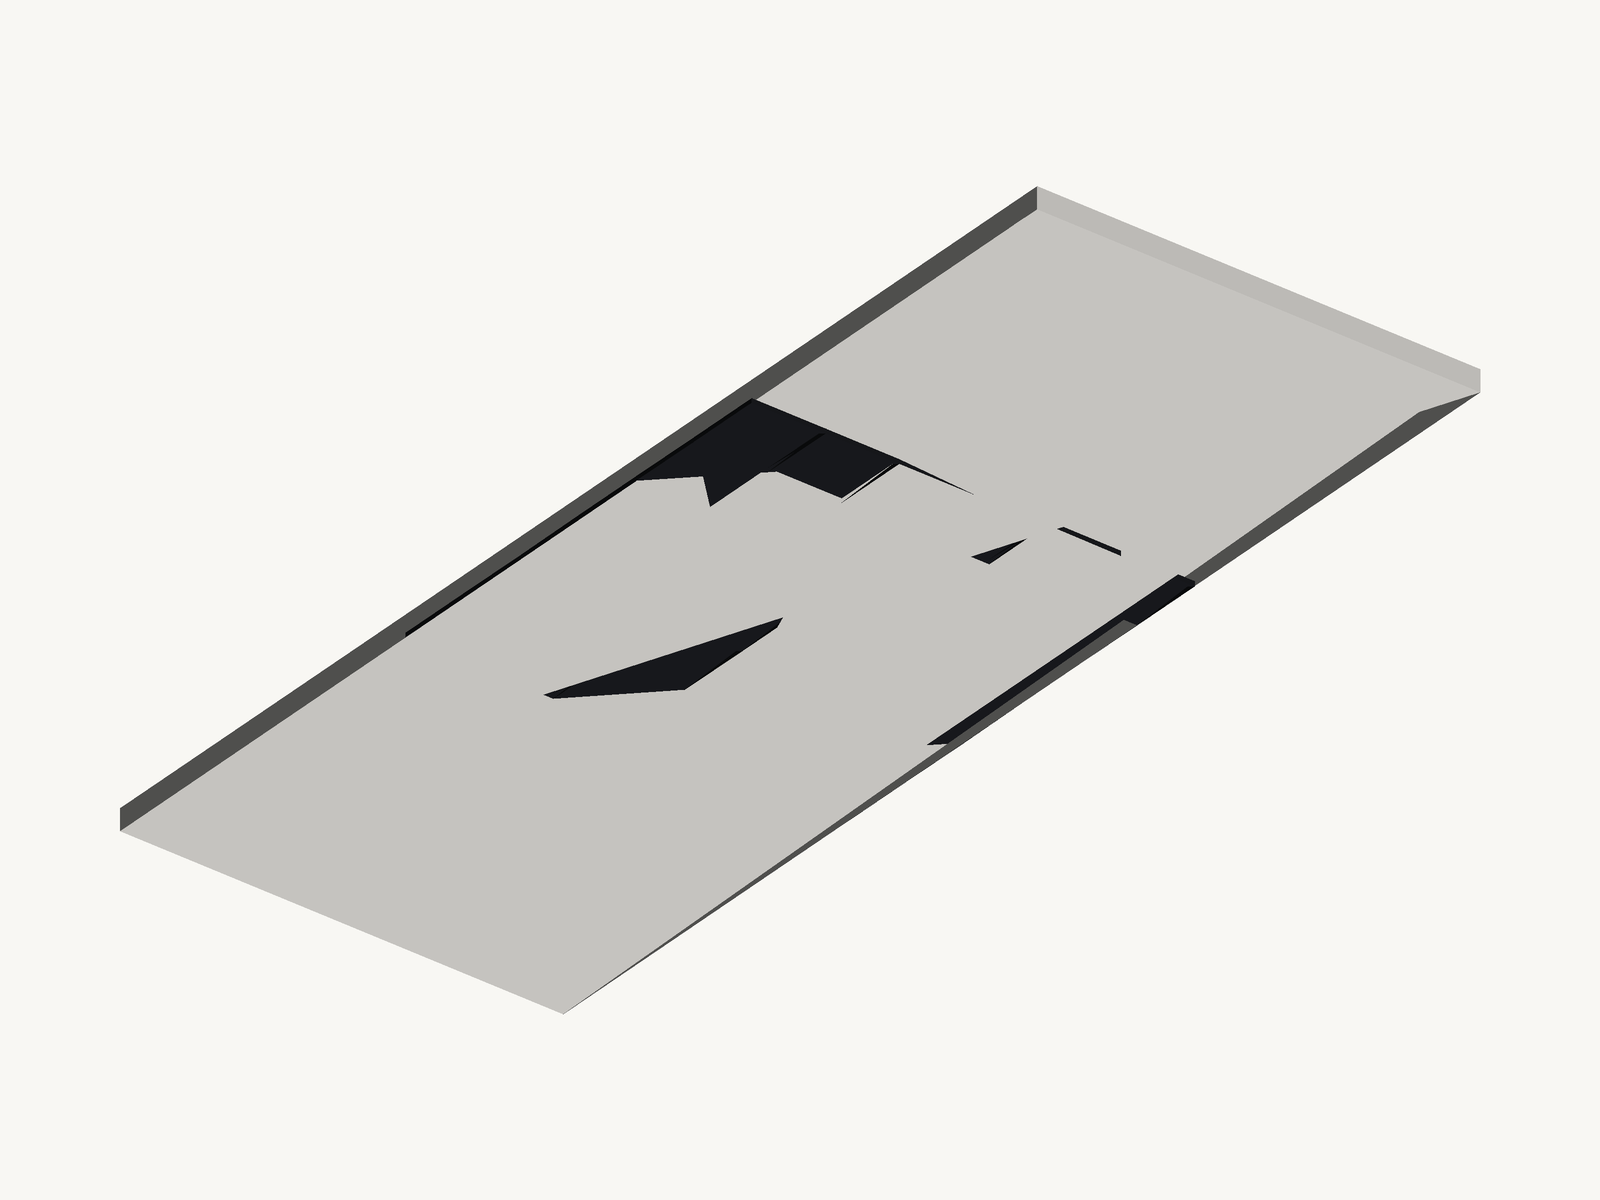
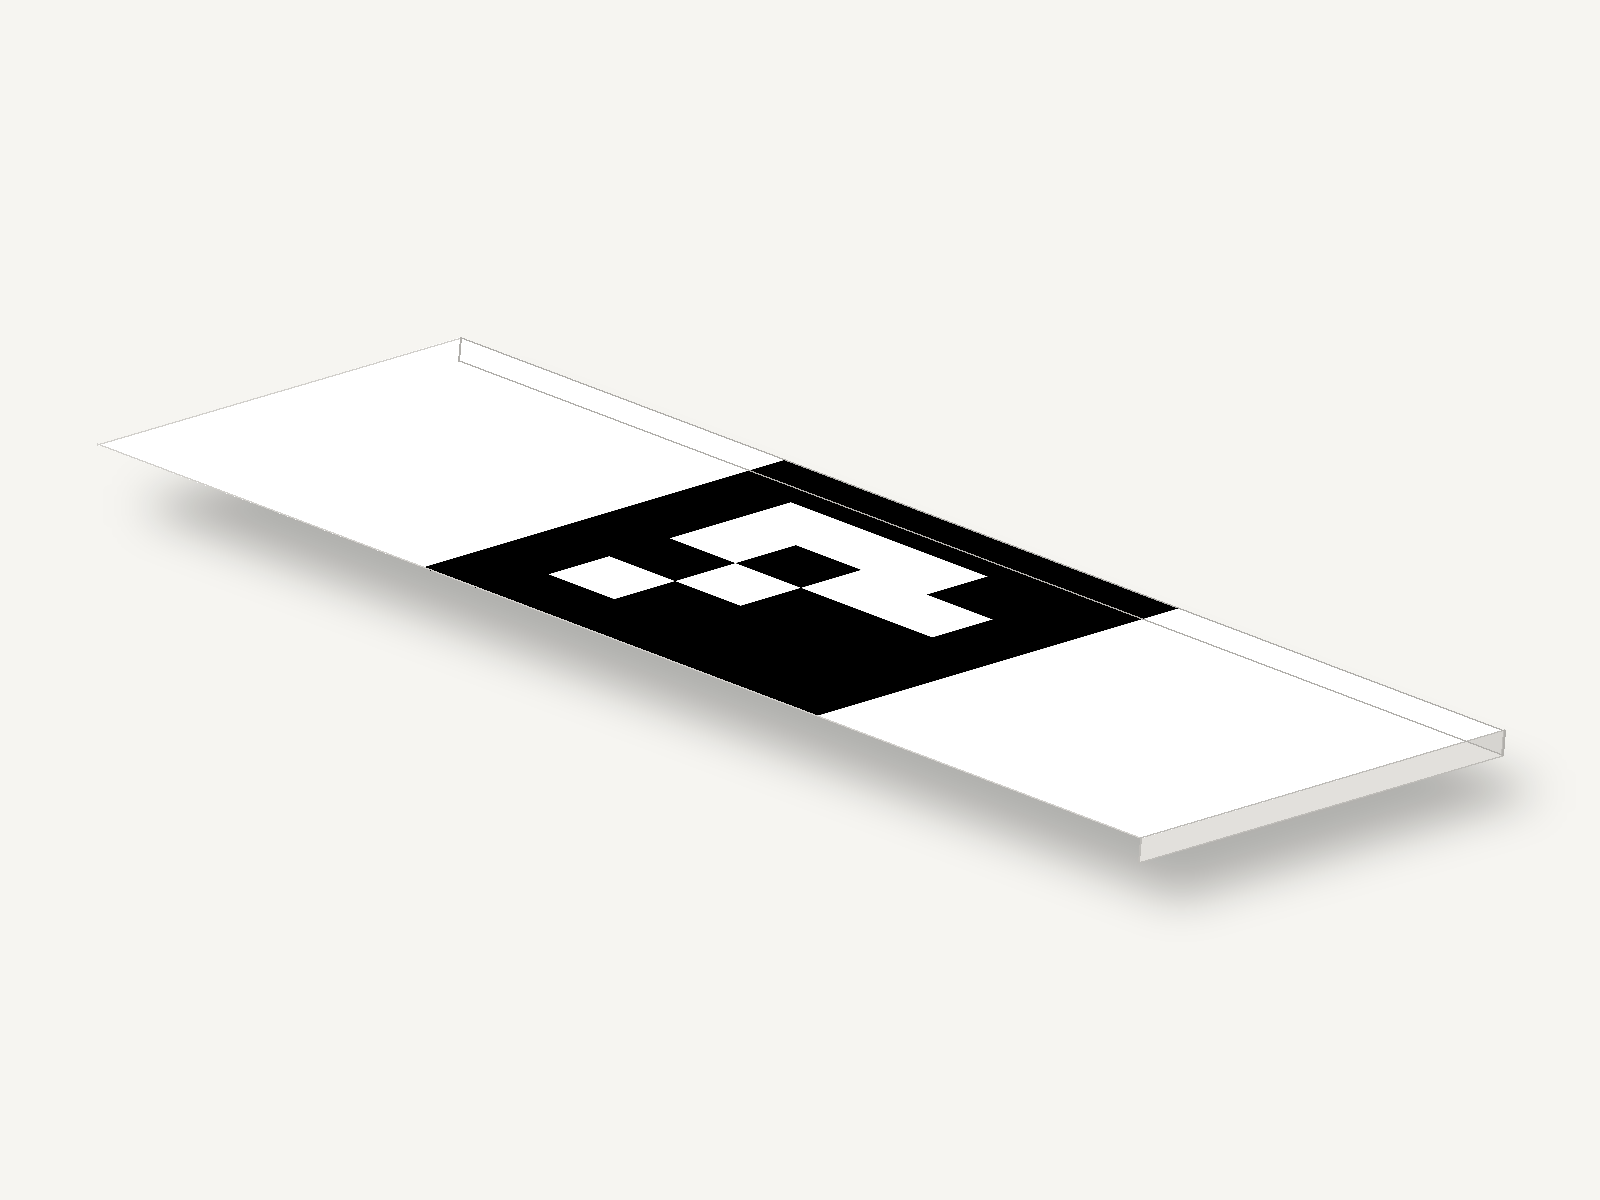
Improve plate render readability

Changed region(s): [[0.0625, 0.1542, 0.9688, 0.8633]]

diff --git a/src/calibration_target_gen/shared/render.py b/src/calibration_target_gen/shared/render.py
@@ -7,10 +7,11 @@ import math
 import numpy as np
 
 try:
-    from PIL import Image, ImageDraw
+    from PIL import Image, ImageDraw, ImageFilter
 except ModuleNotFoundError as exc:  # pragma: no cover - depends on local env
     Image = None
     ImageDraw = None
+    ImageFilter = None
     _PIL_IMPORT_ERROR = exc
 else:
     _PIL_IMPORT_ERROR = None
@@ -100,6 +101,64 @@ def save_render_preview(
     return output_path
 
 
+def save_plate_render_preview(
+    preview_image: np.ndarray,
+    plate_width_mm: float,
+    plate_height_mm: float,
+    plate_thickness_mm: float,
+    path: str | Path,
+    image_size_px: tuple[int, int] = DEFAULT_IMAGE_SIZE_PX,
+) -> Path:
+    _require_pil()
+
+    width_px, height_px = image_size_px
+    if width_px <= 0 or height_px <= 0:
+        raise ValueError("image_size_px values must be positive.")
+
+    preview_rgba = Image.fromarray(preview_image).convert("RGBA")
+    canvas = Image.new("RGBA", (width_px, height_px), color=(246, 245, 241, 255))
+    top_quad, bottom_quad = _project_plate_quads(
+        plate_width_mm=plate_width_mm,
+        plate_height_mm=plate_height_mm,
+        plate_thickness_mm=plate_thickness_mm,
+        image_size_px=image_size_px,
+    )
+
+    shadow = Image.new("RGBA", (width_px, height_px), color=(0, 0, 0, 0))
+    shadow_draw = ImageDraw.Draw(shadow)
+    shadow_poly = [(x + width_px * 0.025, y + height_px * 0.03) for x, y in bottom_quad]
+    shadow_draw.polygon(shadow_poly, fill=(0, 0, 0, 72))
+    shadow = shadow.filter(ImageFilter.GaussianBlur(radius=max(8, int(min(width_px, height_px) * 0.018))))
+    canvas.alpha_composite(shadow)
+
+    front_edge_index = _select_edge(top_quad, mode="front")
+    right_edge_index = _select_edge(top_quad, mode="right", exclude=front_edge_index)
+    side_front = _side_quad(top_quad, bottom_quad, front_edge_index)
+    side_right = _side_quad(top_quad, bottom_quad, right_edge_index)
+
+    draw = ImageDraw.Draw(canvas)
+    draw.polygon(side_front, fill=(226, 224, 220, 255))
+    draw.polygon(side_right, fill=(214, 212, 208, 255))
+
+    transform = preview_rgba.transform(
+        (width_px, height_px),
+        Image.Transform.AFFINE,
+        _affine_coefficients(preview_rgba.size, top_quad),
+        resample=Image.Resampling.BICUBIC,
+        fillcolor=(0, 0, 0, 0),
+    )
+    canvas.alpha_composite(transform)
+
+    draw = ImageDraw.Draw(canvas)
+    draw.line([*top_quad, top_quad[0]], fill=(210, 208, 204, 255), width=max(1, width_px // 600))
+    draw.line([*side_front, side_front[0]], fill=(190, 188, 184, 255), width=max(1, width_px // 800))
+    draw.line([*side_right, side_right[0]], fill=(176, 174, 170, 255), width=max(1, width_px // 800))
+
+    output_path = Path(path)
+    canvas.convert("RGB").save(output_path)
+    return output_path
+
+
 def _prepare_scene(
     meshes: tuple[PreviewMesh, ...],
 ) -> dict[str, object]:
@@ -168,6 +227,161 @@ def _camera_rotation_matrix() -> np.ndarray:
     return pitch_matrix @ yaw_matrix
 
 
+def _project_plate_quads(
+    plate_width_mm: float,
+    plate_height_mm: float,
+    plate_thickness_mm: float,
+    image_size_px: tuple[int, int],
+) -> tuple[list[tuple[float, float]], list[tuple[float, float]]]:
+    width_px, height_px = image_size_px
+    points_top = np.array(
+        [
+            [-plate_width_mm / 2.0, -plate_height_mm / 2.0, plate_thickness_mm],
+            [plate_width_mm / 2.0, -plate_height_mm / 2.0, plate_thickness_mm],
+            [plate_width_mm / 2.0, plate_height_mm / 2.0, plate_thickness_mm],
+            [-plate_width_mm / 2.0, plate_height_mm / 2.0, plate_thickness_mm],
+        ],
+        dtype=float,
+    )
+    points_bottom = points_top.copy()
+    points_bottom[:, 2] = 0.0
+
+    rotation = _plate_rotation_matrix()
+    top_projected = points_top @ rotation.T
+    bottom_projected = points_bottom @ rotation.T
+
+    all_points = np.vstack([top_projected[:, :2], bottom_projected[:, :2]])
+    margin_px = min(width_px, height_px) * 0.08
+    span_x = max(1e-6, float(all_points[:, 0].max() - all_points[:, 0].min()))
+    span_y = max(1e-6, float(all_points[:, 1].max() - all_points[:, 1].min()))
+    scale = min((width_px - 2.0 * margin_px) / span_x, (height_px - 2.0 * margin_px) / span_y)
+
+    def to_screen(points: np.ndarray) -> list[tuple[float, float]]:
+        centered = points[:, :2] - np.array(
+            [
+                (all_points[:, 0].min() + all_points[:, 0].max()) / 2.0,
+                (all_points[:, 1].min() + all_points[:, 1].max()) / 2.0,
+            ]
+        )
+        return [
+            (
+                float(width_px / 2.0 + point[0] * scale),
+                float(height_px / 2.0 + point[1] * scale),
+            )
+            for point in centered
+        ]
+
+    return to_screen(top_projected), to_screen(bottom_projected)
+
+
+def _plate_rotation_matrix() -> np.ndarray:
+    yaw = math.radians(-36.0)
+    pitch = math.radians(70.0)
+    roll = math.radians(12.0)
+    yaw_matrix = np.array(
+        [
+            [math.cos(yaw), -math.sin(yaw), 0.0],
+            [math.sin(yaw), math.cos(yaw), 0.0],
+            [0.0, 0.0, 1.0],
+        ],
+        dtype=float,
+    )
+    pitch_matrix = np.array(
+        [
+            [1.0, 0.0, 0.0],
+            [0.0, math.cos(pitch), -math.sin(pitch)],
+            [0.0, math.sin(pitch), math.cos(pitch)],
+        ],
+        dtype=float,
+    )
+    roll_matrix = np.array(
+        [
+            [math.cos(roll), 0.0, math.sin(roll)],
+            [0.0, 1.0, 0.0],
+            [-math.sin(roll), 0.0, math.cos(roll)],
+        ],
+        dtype=float,
+    )
+    return roll_matrix @ pitch_matrix @ yaw_matrix
+
+
+def _select_edge(
+    quad: list[tuple[float, float]],
+    mode: str,
+    exclude: int | None = None,
+) -> int:
+    edge_scores: list[tuple[float, int]] = []
+    for index in range(len(quad)):
+        if exclude is not None and index == exclude:
+            continue
+        x0, y0 = quad[index]
+        x1, y1 = quad[(index + 1) % len(quad)]
+        if mode == "front":
+            score = (y0 + y1) / 2.0
+        elif mode == "right":
+            score = (x0 + x1) / 2.0
+        else:
+            raise ValueError(f"Unknown edge selection mode '{mode}'.")
+        edge_scores.append((score, index))
+    return max(edge_scores)[1]
+
+
+def _side_quad(
+    top_quad: list[tuple[float, float]],
+    bottom_quad: list[tuple[float, float]],
+    edge_index: int,
+) -> list[tuple[float, float]]:
+    next_index = (edge_index + 1) % len(top_quad)
+    return [
+        top_quad[edge_index],
+        top_quad[next_index],
+        bottom_quad[next_index],
+        bottom_quad[edge_index],
+    ]
+
+
+def _affine_coefficients(
+    source_size: tuple[int, int],
+    destination_quad: list[tuple[float, float]],
+) -> tuple[float, float, float, float, float, float]:
+    src_width, src_height = source_size
+    src_points = np.array(
+        [
+            [0.0, 0.0, 1.0],
+            [float(src_width), 0.0, 1.0],
+            [0.0, float(src_height), 1.0],
+        ],
+        dtype=float,
+    )
+    dst_points = np.array(
+        [
+            destination_quad[0],
+            destination_quad[1],
+            destination_quad[3],
+        ],
+        dtype=float,
+    )
+    x_params = np.linalg.solve(src_points, dst_points[:, 0])
+    y_params = np.linalg.solve(src_points, dst_points[:, 1])
+    forward = np.array(
+        [
+            [x_params[0], x_params[1], x_params[2]],
+            [y_params[0], y_params[1], y_params[2]],
+            [0.0, 0.0, 1.0],
+        ],
+        dtype=float,
+    )
+    inverse = np.linalg.inv(forward)
+    return (
+        float(inverse[0, 0]),
+        float(inverse[0, 1]),
+        float(inverse[0, 2]),
+        float(inverse[1, 0]),
+        float(inverse[1, 1]),
+        float(inverse[1, 2]),
+    )
+
+
 def _normalize(vector: np.ndarray) -> np.ndarray:
     vector_len = np.linalg.norm(vector)
     if vector_len <= 1e-9:
@@ -187,3 +401,8 @@ def _require_render_deps() -> None:
         raise RuntimeError("trimesh is required to render preview images.") from _TRIMESH_IMPORT_ERROR
     if Image is None or ImageDraw is None:
         raise RuntimeError("Pillow is required to render preview images.") from _PIL_IMPORT_ERROR
+
+
+def _require_pil() -> None:
+    if Image is None or ImageDraw is None or ImageFilter is None:
+        raise RuntimeError("Pillow is required to render plate preview images.") from _PIL_IMPORT_ERROR

diff --git a/src/calibration_target_gen/targets/charuco_plate/generate.py b/src/calibration_target_gen/targets/charuco_plate/generate.py
@@ -3,14 +3,11 @@ from __future__ import annotations
 from datetime import datetime
 from pathlib import Path
 
-from .board import build_board_metrics, required_marker_count, save_preview_image
+from .board import build_board_metrics, render_preview_image, required_marker_count, save_preview_image
 from .config import CharucoPlateConfig
 from .geometry import create_black_inlay_mesh, create_white_plate_mesh
 from ...shared.render import (
-    DEFAULT_ACCENT_RGB,
-    DEFAULT_BODY_RGB,
-    PreviewMesh,
-    save_render_preview,
+    save_plate_render_preview,
 )
 
 
@@ -23,13 +20,14 @@ def generate_all(cfg: CharucoPlateConfig) -> Path:
     black_inlay = create_black_inlay_mesh(cfg)
     black_inlay.export(output_dir / "charuco_plate_black.stl")
 
+    preview_image = render_preview_image(cfg)
     save_preview_image(cfg, output_dir / "charuco_plate_preview.png")
-    save_render_preview(
-        [
-            PreviewMesh(mesh=white_plate, fill_rgb=DEFAULT_BODY_RGB),
-            PreviewMesh(mesh=black_inlay, fill_rgb=DEFAULT_ACCENT_RGB),
-        ],
-        output_dir / "charuco_plate_render.png",
+    save_plate_render_preview(
+        preview_image=preview_image,
+        plate_width_mm=cfg.plate_size_mm,
+        plate_height_mm=cfg.plate_size_mm,
+        plate_thickness_mm=cfg.plate_thickness_mm,
+        path=output_dir / "charuco_plate_render.png",
     )
     _write_run_info(output_dir, cfg)
 

diff --git a/src/calibration_target_gen/targets/aruco_plate/generate.py b/src/calibration_target_gen/targets/aruco_plate/generate.py
@@ -3,14 +3,11 @@ from __future__ import annotations
 from datetime import datetime
 from pathlib import Path
 
-from .board import build_marker_metrics, save_preview_image
+from .board import build_marker_metrics, render_preview_image, save_preview_image
 from .config import ArucoPlateConfig
 from .geometry import create_black_inlay_mesh, create_white_plate_mesh
 from ...shared.render import (
-    DEFAULT_ACCENT_RGB,
-    DEFAULT_BODY_RGB,
-    PreviewMesh,
-    save_render_preview,
+    save_plate_render_preview,
 )
 
 
@@ -23,13 +20,14 @@ def generate_all(cfg: ArucoPlateConfig) -> Path:
     black_inlay = create_black_inlay_mesh(cfg)
     black_inlay.export(output_dir / "aruco_plate_black.stl")
 
+    preview_image = render_preview_image(cfg)
     save_preview_image(cfg, output_dir / "aruco_plate_preview.png")
-    save_render_preview(
-        [
-            PreviewMesh(mesh=white_plate, fill_rgb=DEFAULT_BODY_RGB),
-            PreviewMesh(mesh=black_inlay, fill_rgb=DEFAULT_ACCENT_RGB),
-        ],
-        output_dir / "aruco_plate_render.png",
+    save_plate_render_preview(
+        preview_image=preview_image,
+        plate_width_mm=cfg.plate_width_mm,
+        plate_height_mm=cfg.plate_height_mm,
+        plate_thickness_mm=cfg.plate_thickness_mm,
+        path=output_dir / "aruco_plate_render.png",
     )
     _write_run_info(output_dir, cfg)
 
